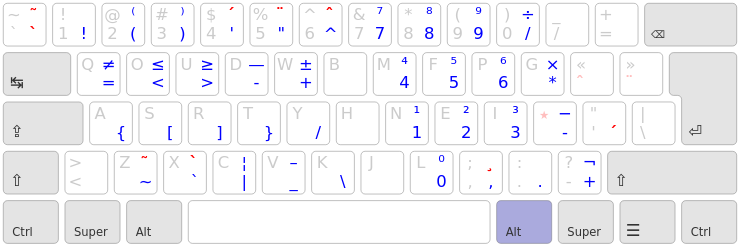
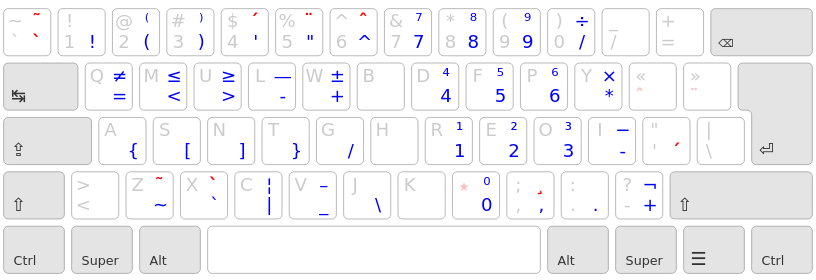
Ergol v0.3 !!!

diff --git a/index.html b/index.html
@@ -216,7 +216,7 @@
     </li>
     <li> <strong>la disposition est compatible avec les claviers compacts</strong>,
       voire ultra compacts avec une <a href="42.html">version alternative</a>
-      (encore en développement). </li>
+      (moins intuitive, mais légèrement plus ergonimique). </li>
   </ul>
   <p> Les chiffres sont en accès direct, sans <kbd>Shift</kbd>, pour faciliter
     leur enchaînement (= la saisie de nombres). Oubliez votre pavé numérique ! </p>
@@ -308,24 +308,19 @@
   <p> Ce projet est encore un travail en cours, certains caractères sont
     susceptibles de bouger pour améliorer l’équilibre de la <i lang="en">heatmap</i>
     ou certains enchaînements. </p>
-  <p> On envisage d’échanger les touches <kbd>Q</kbd> et <kbd>B</kbd> pour
-    corriger les enchaînements <kbd>MB</kbd> et <kbd>BL</kbd>, au détriment de
-    <kbd>QUE</kbd> (le trigramme le plus fréquent en français) qui deviendrait
-    moins confortable. Perdre le raccourci <kbd>Ctrl</kbd>-<kbd>Q</kbd> ne nous
-    semble pas rédhibitoire.</p>
   <p> On a envisagé par le passé de placer le <kbd>E</kbd> sous l’index, comme
     en Bépo, parce que c’est la lettre la plus fréquente en français ; mais cela
     ruine l’équilibre de la charge des doigts et complique beaucoup
     d’enchaînements. De même, on a essayé de mettre toutes les voyelles d’un
-    côté (comme Dvorak ou Bépo) ou de déplacer la touche morte mais cela
-    engendrait plus de problèmes que cela n’en résolvait. </p>
+    côté (comme Dvorak ou Bépo) mais cela engendrait plus de problèmes que
+	cela n’en résolvait. </p>
 
   <h3> Variante compacte </h3>
-  <p> <a href="42.html">ErgoL42</a> est une variante compacte en cours de
-    développement. Elle vise à rendre la touche morte plus ergonomique (en n’en
-    mettant qu’une au lieu de trois) et rendre la disposition compatible avec
-    les claviers ultra compacts, mais est moins intuitive et fait des compromis
-    sur la typographie (apostrophe et guillemets typographiques moins faciles
+  <p> <a href="42.html">ErgoL42</a> est une variante compacte de Ergol.
+	Elle vise à rendre la touche morte plus ergonomique (en n’en mettant qu’une
+	au lieu de trois) et rendre la disposition compatible avec les claviers
+	ultra compacts, mais est moins intuitive et fait des compromis sur la
+	typographie (apostrophe et guillemets typographiques moins faciles
     d’accès). </p>
 
   <footer>

diff --git a/jdll2022/index.html b/jdll2022/index.html
@@ -237,7 +237,7 @@ template: inverse
 ---
 ## Dvorak (1936)
 
-![](imagesErgoL/heatmap_dvorak.png)
+![](images/heatmap_dvorak.png)
 
 - premier essai d’optimisation du clavier
 - voyelles à gauche
@@ -247,7 +247,7 @@ template: inverse
 ---
 ## Colemak (2006)
 
-![](imagesErgoL/heatmap_colemak.png)
+![](images/heatmap_colemak.png)
 
 - enchaînements plus confortables (rolls vers le centre)
 - allègement des auriculaires
@@ -257,7 +257,7 @@ template: inverse
 ---
 ## Workman (2010)
 
-![](imagesErgoL/heatmap_workman.png)
+![](images/heatmap_workman.png)
 
 - favorise les alternances de mains *et* les rolls
 - charge des doigts / heatmap très bonne
@@ -266,7 +266,7 @@ template: inverse
 ---
 ## Bépo (2005)
 
-![](imagesErgoL/heatmap_bepo.png)
+![](images/heatmap_bepo.png)
 
 - similaire à Dvorak (mais pour le français)
 - charge des doigts **très** déséquilibrée
@@ -276,7 +276,7 @@ template: inverse
 ---
 ## Qwerty-Lafayette (2006)
 
-![](imagesErgoL/heatmap_lafayette.png)
+![](images/heatmap_lafayette.png)
 
 - charge des doigts assez déséquilibrée
 - enchaînements relativement inconfortables
@@ -301,7 +301,7 @@ template: inverse
 ---
 ## ErgoL
 
-![](imagesErgoL/heatmap_ergol.png)
+![](images/heatmap_ergol.png)
 
 - similaire à Workman / Colemak
 - touche morte + `AltGr` du Qwerty-Lafayette
@@ -368,9 +368,9 @@ Conserver les raccourcis clavier n’est donc pas un compromis sur la saisie de 
 ---
 ## Français **et** anglais ??
 
-![](imagesErgoL/top10letters.png)
+![](images/top10letters.png)
 
-![](imagesErgoL/ergol_top10.png)
+![](images/ergol_top10.png)
 
 Donc oui, c'est carrément possible.
 
@@ -393,9 +393,9 @@ Donc oui, c'est carrément possible.
 ---
 ## ErgoL42
 
-<!-- ![](imagesErgoL/ergol42_layout.png) -->
+<!-- ![](images/ergol42_layout.png) -->
 
-![](imagesErgoL/ergol42_lower.png)
+![](images/ergol42_lower.png)
 
 - une seule touche morte
 - touche `AltGr` optionnelle
